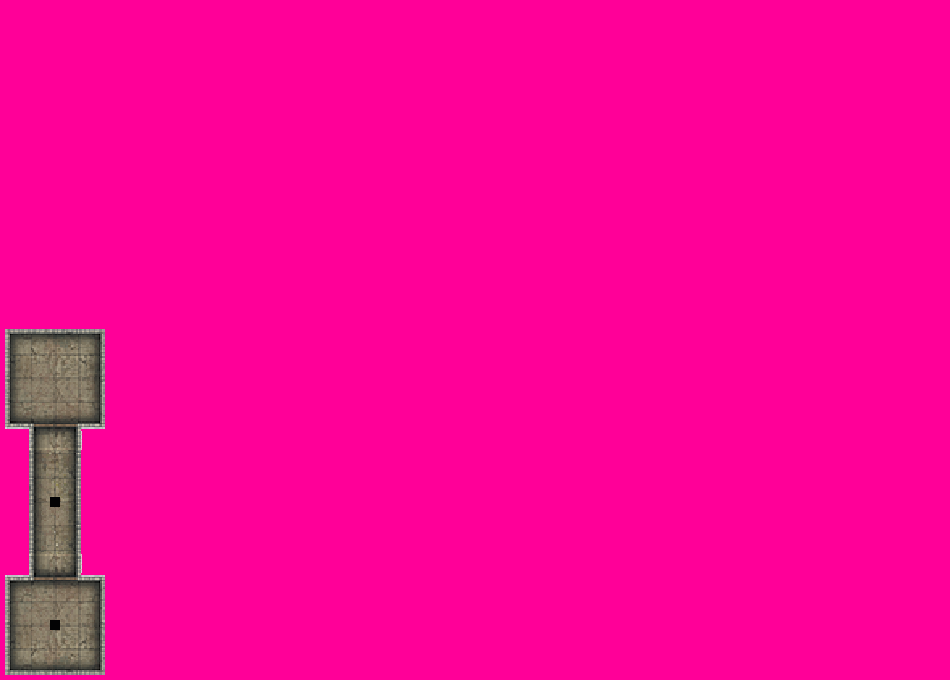
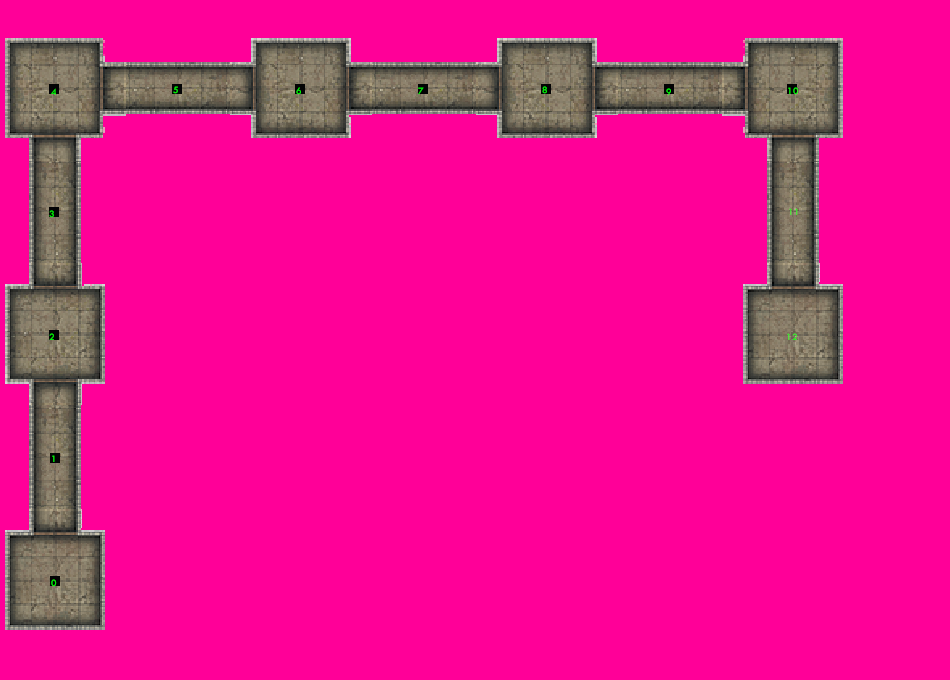
Room System 1.15 Room class created and numerous additions added to dungeon.java, controllerGame.java, and entEnemy.java

Changed region(s): [[0.0, 0.0309, 0.8853, 1.0]]

diff --git a/src/sauce/controllerGame.java b/src/sauce/controllerGame.java
@@ -19,6 +19,8 @@ public class controllerGame {
     private appDungGame app;
     private controllerInventory invControl;
     private controllerBattle battleControl;
+    public room currentRoom;
+    public int[] fredCord = new int[2];
 
     private Image dungImg = new Image("Dungoen Background.png");//Don't judge me I'm dyslexic.
 
@@ -47,26 +49,76 @@ public class controllerGame {
         /*Code within the Initialize method will run once the fxml is loaded.*/
         gameScreen.setFill(new ImagePattern(dungImg));
         updateBars();
+        currentRoom = dungeon.allRooms[0];
     }
 
 //--------------------Move Button Methods--------------------
     public void moveUp(ActionEvent actionEvent) {
-        fred.setTranslateY(fred.getTranslateY()-123);
-        System.out.println(fred.getTranslateX() + ","+fred.getTranslateY());//Test code. -----Delete before publish-----
+        if (currentRoom.opponent == null || currentRoom.opponent.lootCollected) {
+
+            if (attemptMove(1, "y")) {
+                fred.setTranslateY(fred.getTranslateY() - 123);
+            }
+        }else {
+            System.out.println("Opponent not defeated.");
+        }
     }
     public void moveDown(ActionEvent actionEvent) {
-        fred.setTranslateY(fred.getTranslateY()+123);
-        System.out.println(fred.getTranslateX() + ","+fred.getTranslateY());//Test code. -----Delete before publish-----
+        if (currentRoom.opponent == null || currentRoom.opponent.lootCollected) {
+            if (attemptMove(-1, "y")) {
+                fred.setTranslateY(fred.getTranslateY() + 123);
+            }
+        }else {
+            System.out.println("Opponent not defeated.");
+        }
     }
     public void moveLeft(ActionEvent actionEvent) {
-        fred.setTranslateX(fred.getTranslateX()-123);
-        System.out.println(fred.getTranslateX() + ","+fred.getTranslateY());//Test code. -----Delete before publish-----
+        if (currentRoom.opponent == null || currentRoom.opponent.lootCollected) {
+            if (attemptMove(-1, "x")) {
+                fred.setTranslateX(fred.getTranslateX() - 123);
+            }
+        }else {
+            System.out.println("Opponent not defeated.");
+        }
     }
     public void moveRight(ActionEvent actionEvent) {
-        fred.setTranslateX(fred.getTranslateX()+123);
-        System.out.println(fred.getTranslateX() + ","+fred.getTranslateY());//Test code. -----Delete before publish-----
+        if (currentRoom.opponent == null || currentRoom.opponent.lootCollected) {
+            if (attemptMove(1, "x")) {
+                fred.setTranslateX(fred.getTranslateX() + 123);
+            }
+        }else {
+            System.out.println("Opponent not defeated.");
+        }
     }
+    private boolean attemptMove(int n, String t){
+        int newCord;
+        if(t == "x"){
+            newCord = currentRoom.location[0]+n;
+            for(int i = 0; i< dungeon.allRooms.length; i++){
 
+                if(dungeon.allRooms[i].location[0] == newCord && dungeon.allRooms[i].location[1] == currentRoom.location[1]){
+                    System.out.println("X:"+i+"Room cords:"+dungeon.allRooms[i].location[0]+","+dungeon.allRooms[i].location[1]);
+                    System.out.printf(newCord+"\n");
+                    currentRoom = dungeon.allRooms[i];
+                    return true;
+                }
+            }
+        } else if (t == "y") {
+            newCord = currentRoom.location[1]+n;
+            for(int i = 0; i< dungeon.allRooms.length; i++){
+
+                if(dungeon.allRooms[i].location[1] == newCord && dungeon.allRooms[i].location[0] == currentRoom.location[0]){
+                    System.out.println("Y:"+i+"Room cords:"+dungeon.allRooms[i].location[0]+","+dungeon.allRooms[i].location[1]);
+                    System.out.printf(newCord+"\n");
+                    currentRoom = dungeon.allRooms[i];
+                    return true;
+                }
+            }
+        }
+            System.out.println("That's a wall, probably...");
+            return false;
+
+    }
 
     public void openInventory(ActionEvent actionEvent) {
         /*This method is assigned to a button in the game screen to swap the window to the inventory screen.*/

diff --git a/src/sauce/dungeon.java b/src/sauce/dungeon.java
@@ -22,7 +22,8 @@ public class dungeon {
     static entEnemy lvl2E = new entEnemy();
     static entEnemy lvl3E = new entEnemy();
     static entEnemy lvl4E = new entEnemy();
-
+//--------------------Room--------------------
+public static room[] allRooms = new room[13];
 //--------------------XXX--------------------
 
 
@@ -79,12 +80,42 @@ public class dungeon {
     }
 
     public static void createEnemies(){
+        item[] lvl0L = new item[4];//This is empty for now due to the lvl0 weapon and armor being pre-acquired.
+        item[] lvl1L = new item[4];
+        lvl1L[0] = lvl1W;
+        lvl1L[1] = lvl1A;
+        item[] lvl2L = new item[4];
+        lvl2L[0] = lvl2W;
+        lvl2L[1] = lvl2A;
+        item[] lvl3L = new item[4];
+        lvl3L[0] = lvl3W;
+        lvl3L[1] = lvl3A;
+        item[] lvl4L = new item[4];
+        lvl4L[0] = lvl4W;
+        lvl4L[1] = lvl4A;
+        lvl0E.setStats(200,10,30,(new Image("testSprites/testSprite2.png")),lvl0L);
+        lvl1E.setStats(300,20,30,(new Image("testSprites/testSprite2.png")),lvl1L);
+        lvl2E.setStats(400,30,40,(new Image("testSprites/testSprite2.png")),lvl2L);
+        lvl3E.setStats(500,40,50,(new Image("testSprites/testSprite2.png")),lvl3L);
+        lvl4E.setStats(600,50,60,(new Image("testSprites/testSprite2.png")),lvl4L);
+    }
 
-        lvl0E.setStats(200,10,30,(new Image("testSprites/testSprite2.png")));
-        lvl1E.setStats(300,20,30,(new Image("testSprites/testSprite2.png")));
-        lvl2E.setStats(400,30,40,(new Image("testSprites/testSprite2.png")));
-        lvl3E.setStats(500,40,50,(new Image("testSprites/testSprite2.png")));
-        lvl4E.setStats(600,50,60,(new Image("testSprites/testSprite2.png")));
+    public static void createRooms(){
+        //For testing purposes, all rooms are filled with lvl0E enemy.
+        allRooms[0] = new room(0,0,0);
+        allRooms[1] = new room(1,0,1);
+        allRooms[2] = new room(lvl0E,2,0,2);
+        allRooms[3] = new room(3,0,3);
+        allRooms[4] = new room(lvl0E,4,0,4);
+        allRooms[5] = new room(5,1,4);
+        allRooms[6] = new room(lvl0E,6,2,4);
+        allRooms[7] = new room(7,3,4);
+        allRooms[8] = new room(lvl0E,8,4,4);
+        allRooms[9] = new room(9,5,4);
+        allRooms[10] = new room(lvl0E,10,6,4);
+        allRooms[11] = new room(11,6,3);
+        allRooms[12] = new room(12,6,2);
+
     }
 
     public static void createBoss(){

diff --git a/src/sauce/appDungGame.java b/src/sauce/appDungGame.java
@@ -28,27 +28,28 @@ public Scene getScene(int n){
 
     @Override
     public void start(Stage window) throws Exception {
-        Main.character.equipWeapon(dungeon.lvl0W);
-        Main.character.equipArmor(dungeon.lvl0A);
+        Main.character.equipWeapon(dungeon.lvl4W);
+        Main.character.equipArmor(dungeon.lvl4A);
         this.window = window;
         FXMLLoader startLoader = new FXMLLoader(Objects.requireNonNull(getClass().getResource("startScreen.fxml")));
         FXMLLoader gameLoader = new FXMLLoader(Objects.requireNonNull(getClass().getResource("dungeonGame.fxml")));
         FXMLLoader invLoader = new FXMLLoader(Objects.requireNonNull(getClass().getResource("inventoryScreen.fxml")));
         FXMLLoader battleLoader = new FXMLLoader(Objects.requireNonNull(getClass().getResource("battleScreen.fxml")));
 
+        dungeon.createEnemies();
+        dungeon.createRooms();
+
         sceneArray[0] =  new Scene(gameLoader.load());
         sceneArray[1] =  new Scene(invLoader.load());
         sceneArray[2] = new Scene(battleLoader.load());
 
-        dungeon.createEnemies();
+
 
         Parent start = startLoader.load();
         window.setTitle("Super Duper Dungeon");
         Scene startScr = new Scene(start);
         window.setScene(startScr);
 
-        //uncomment to test battle scene
-//
 
 
 
@@ -70,7 +71,7 @@ public Scene getScene(int n){
 
         Main.character.playerInventory[1]= dungeon.lvl2A;
         Main.character.playerInventory[2]= dungeon.lvl2W;
-        Main.character.playerInventory[3]= dungeon.lvl4A;
+
 
 
         window.show();

diff --git a/src/sauce/entEnemy.java b/src/sauce/entEnemy.java
@@ -6,11 +6,34 @@ Sprites: Several small bad guy sprites (Goblins, ghouls, slimes, etc...)
 public class entEnemy extends entityDecorator {
 
 Image entSprite;
-    public void setStats(int health, int damMin, int damMax, Image entSprite){
+item[] loot = new item[4];
+
+    public void setStats(int health, int damMin, int damMax, Image entSprite, item[] loot){
         this.HP = health;
         this.entDamRange[0] = damMin;
         this.entDamRange[1] = damMax;
         this.entSprite = entSprite;
+        this.loot = loot;
+    }
+
+    public void addLoot(){
+        /*This method will scan the loot array and scan the player inventory then add
+        the loot to the open slots of the players inventory. Skipping all null slots.*/
+        if(!lootCollected) {
+            for (int n = 0; n <= 3; n++) {
+
+                if (loot[n] != null) {
+
+                    for (int b = 1; b <= 12; b++) {
+                        if (Main.character.playerInventory[b] == null) {
+                            Main.character.playerInventory[b] = (itemGearDecorator) loot[n];
+                            b = 13;
+                        }
+                    }
+                }
+            }
+            lootCollected = true;
+        }
     }
 
 

diff --git a/src/sauce/room.java b/src/sauce/room.java
@@ -1,0 +1,19 @@
+public class room {
+
+public entityDecorator opponent;
+public int roomNum;
+public String roomType = "Default";//May be deleted.
+public int[] location = new int[2];
+public room (entityDecorator opponent, int roomNum, int x, int y){
+    this.roomNum = roomNum;
+    this.opponent = opponent;
+    this.location[0] = x;
+    this.location[1] = y;
+}
+public room(int roomNum, int x,int y){
+    this.roomNum = roomNum;
+    this.location[0] = x;
+    this.location[1] = y;
+}
+
+}

diff --git a/src/sauce/player.java b/src/sauce/player.java
@@ -13,7 +13,6 @@ public class player implements entity {
     itemWeapon eqItemWeapon;
     itemArmor eqItemArmor;//For now, there will only be one equipable armor piece. Rather than a "Helmet","Gauntlet","Shield" etc...
     String playClass = "default";
-    int playerSprite;//Just a placeholder for now.
 
     @Override
     public void changeHP(int change) {

diff --git a/src/sauce/battle.java b/src/sauce/battle.java
@@ -50,6 +50,7 @@ public class battle {
         battleControl.endBattle();
         }else if(opponent.HP == 0){
         System.out.println("Enemy died.");
+        opponent.addLoot();
         battleControl.endBattle();
         }else {
         System.out.println("Error endBattle() was incorrectly called.");

diff --git a/src/sauce/entityDecorator.java b/src/sauce/entityDecorator.java
@@ -2,6 +2,7 @@ public class entityDecorator implements entity {
     int HP;
     int[] entDamRange = new int[2];
     int spriteNum;//Just a placeholder for now.
+    boolean lootCollected = false;
 
     @Override
     public void changeHP(int change) {

diff --git a/src/sauce/Enemy.java b/src/sauce/Enemy.java
@@ -50,5 +50,5 @@ public class Enemy {
         this.enemyImage.setImage(new Image("dead_enemy.png"));
     }
 }
-/*/
+*/
 //generate simple enemy behavior for a java 2d dungeon crawl using scenebuilder and javafx intellij//
